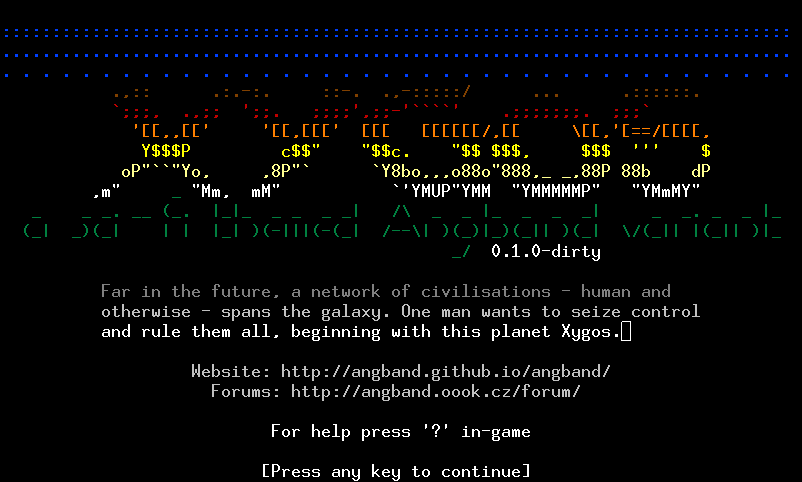
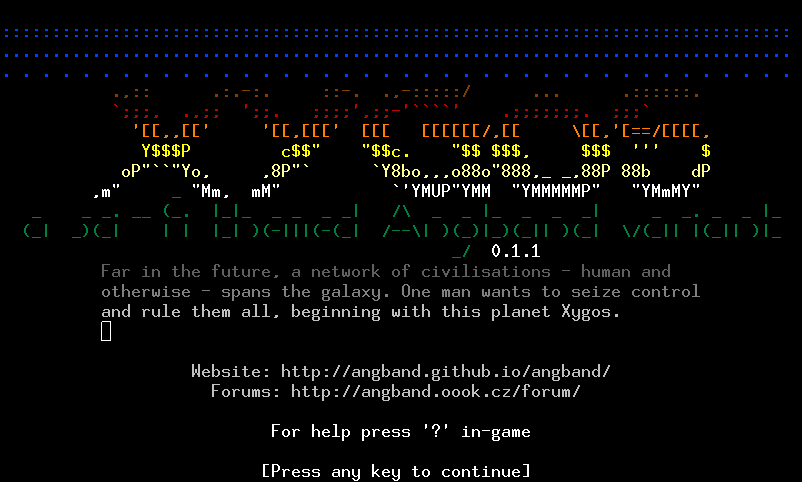
Update for version 0.1.1

Changed region(s): [[0.1247, 0.4979, 0.8728, 0.7158], [0.187, 0.6846, 0.2182, 0.7158]]

diff --git a/src/buildid.h b/src/buildid.h
@@ -26,7 +26,7 @@
 # define XSTR(x) STR(x)
 # define VERSION_STRING XSTR(BUILD_ID)
 #else
-# define VERSION_STRING "0.1.0"
+# define VERSION_STRING "0.1.1"
 #endif
 
 extern const char *buildid;

diff --git a/docs/version.rst b/docs/version.rst
@@ -2,7 +2,7 @@
 Version Information
 ===================
 
-Xygos is a variant of Angband. The current version is 0.1.0.
+Xygos is a variant of Angband. The current version is 0.1.1.
 It was forked from Angband part way through 4.2.1; most of the contributions
 to 4.2.3 have also been merged in.
 

diff --git a/README.md b/README.md
@@ -1,4 +1,4 @@
-# Xygos 0.1.0
+# Xygos 0.1.1
 
 <p align="center">
   <img src="screenshots/title.png" width="425"/>
